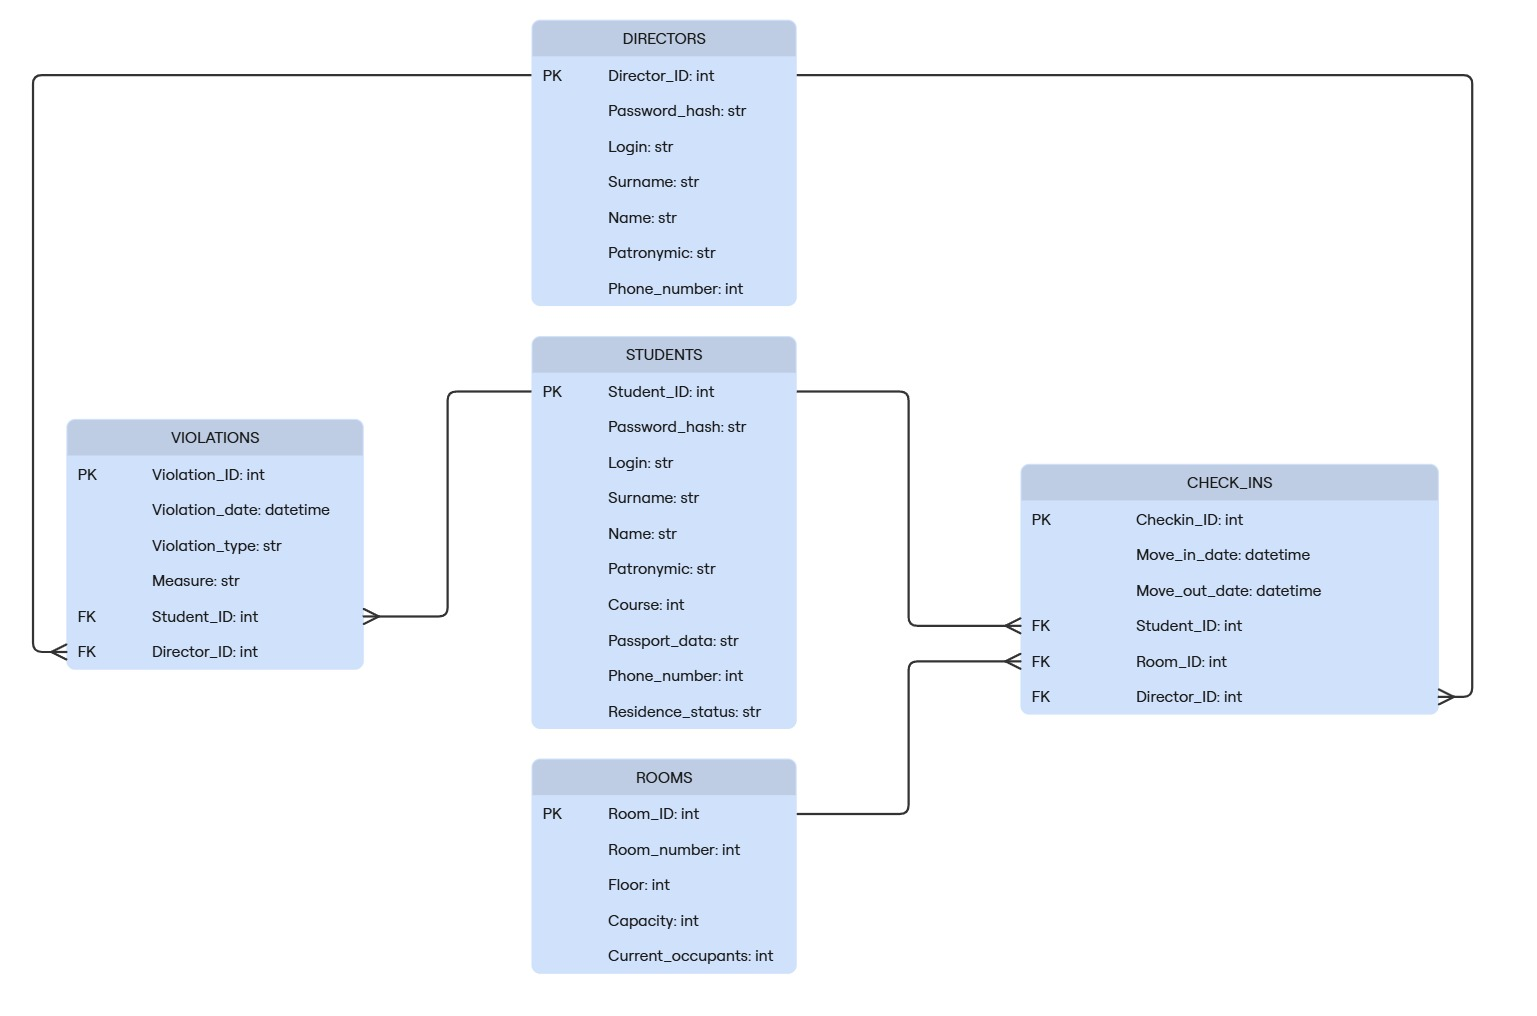
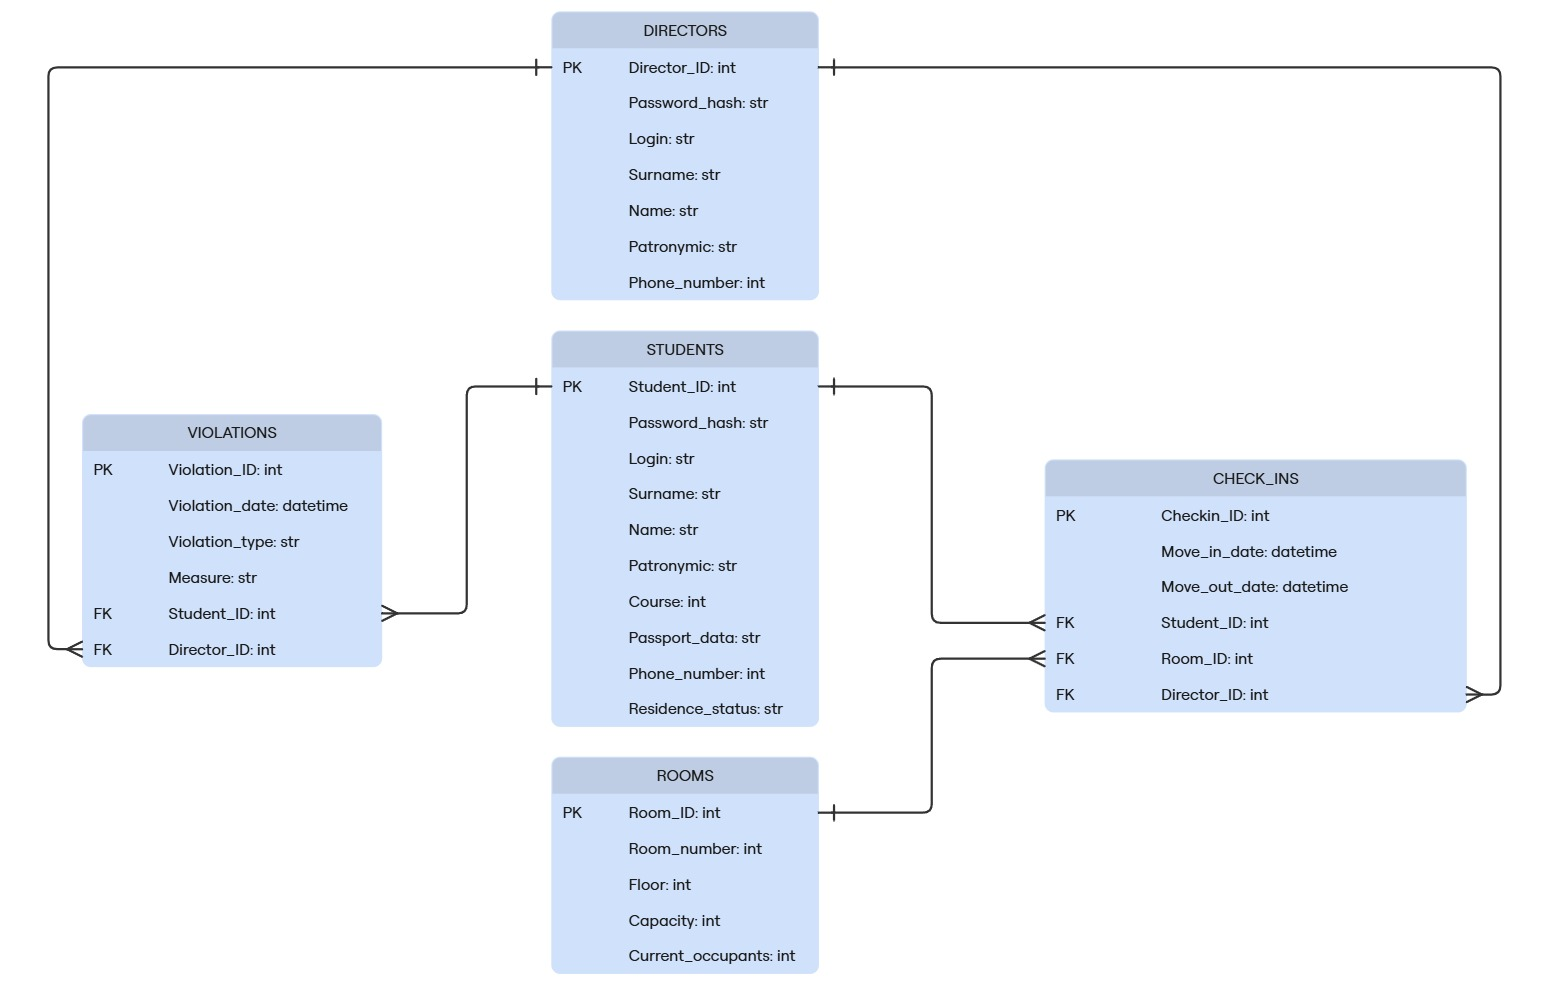
Update3 ERD

Changed region(s): [[0.0, 0.0934, 0.5934, 0.996], [0.0312, 0.0, 0.9681, 0.7159], [0.6558, 0.498, 0.6871, 0.5291]]

diff --git a/src/DormitorySystem/database/sql.py b/src/DormitorySystem/database/sql.py
@@ -1,0 +1,24 @@
+import sqlite3
+
+# Создание базы данных (файл)
+conn = sqlite3.connect('dormitory.db')
+cursor = conn.cursor()
+
+# Создание таблицы Authors
+cursor.execute('''
+CREATE TABLE IF NOT EXISTS Students (
+    ID INTEGER PRIMARY KEY,
+    Name TEXT NOT NULL
+)
+''')
+
+# Добавление записи
+cursor.execute("INSERT INTO Students (Name) VALUES ('Торопова А.А.')")
+
+# Получение данных
+cursor.execute("SELECT * FROM Students")
+print(cursor.fetchall())
+
+# Сохранение изменений и закрытие соединения
+conn.commit()
+conn.close()
